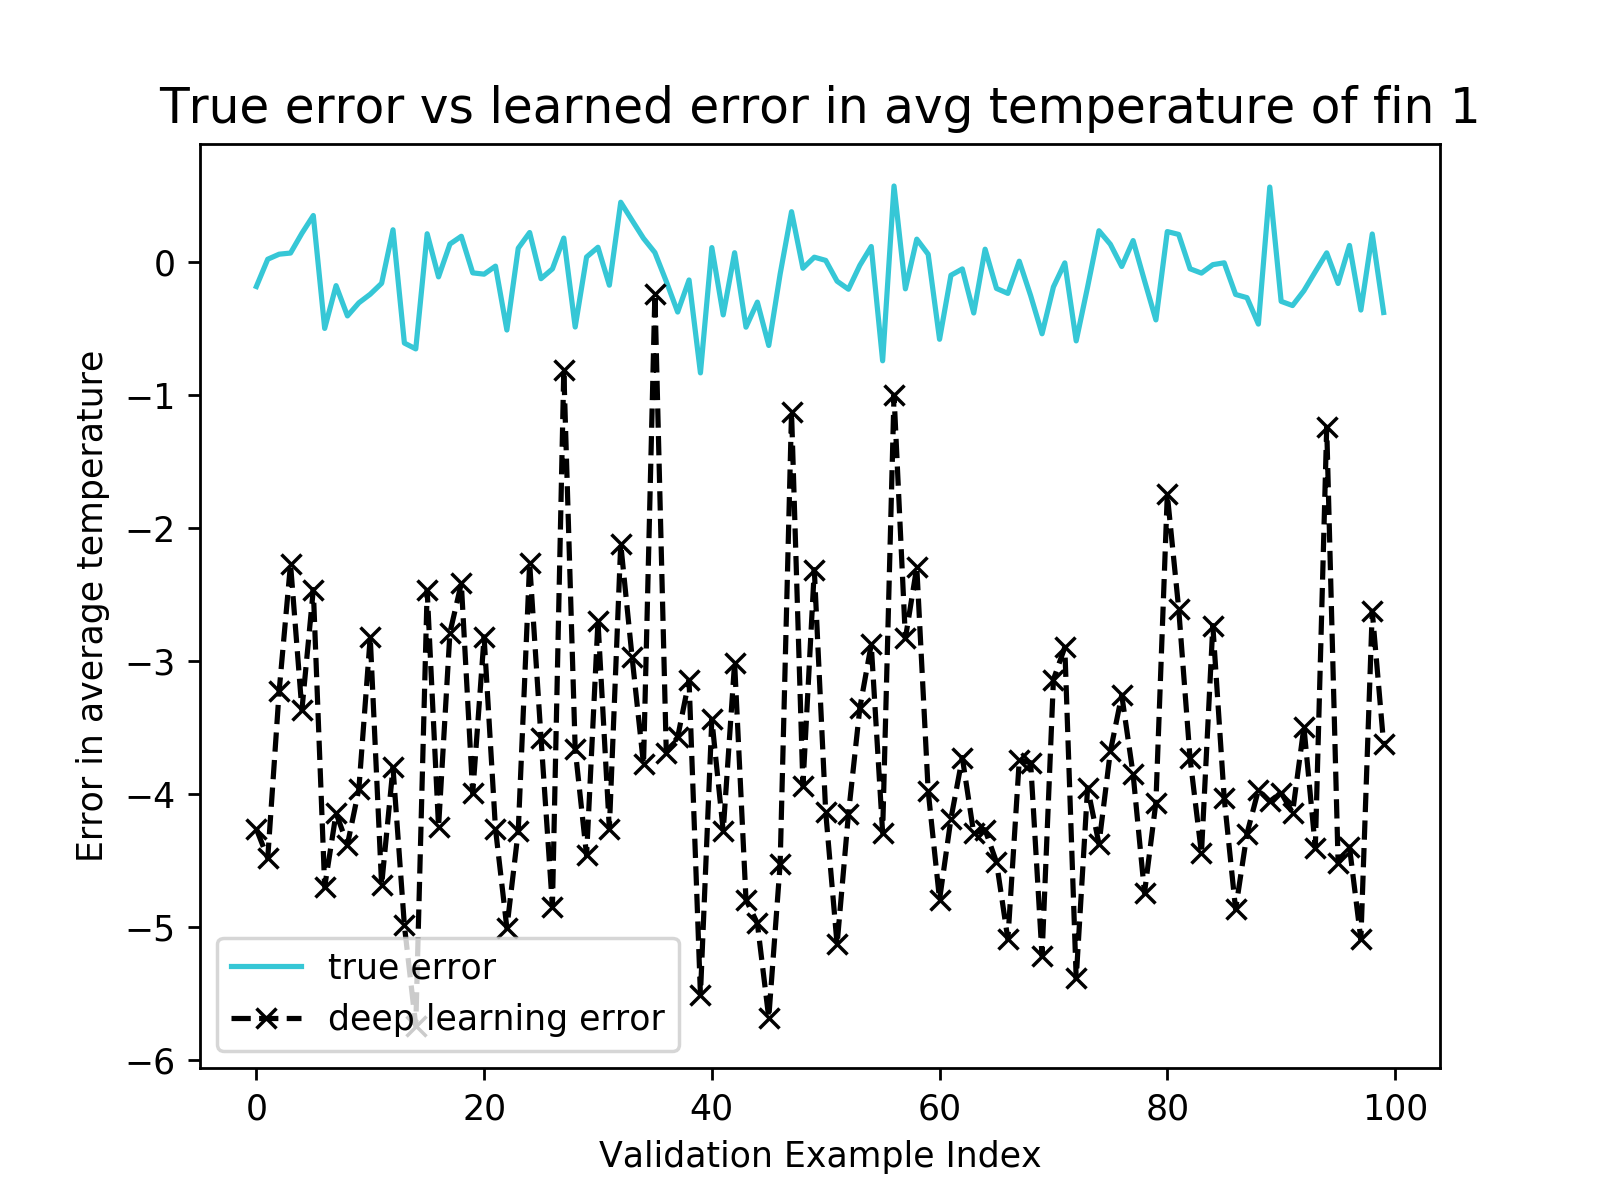
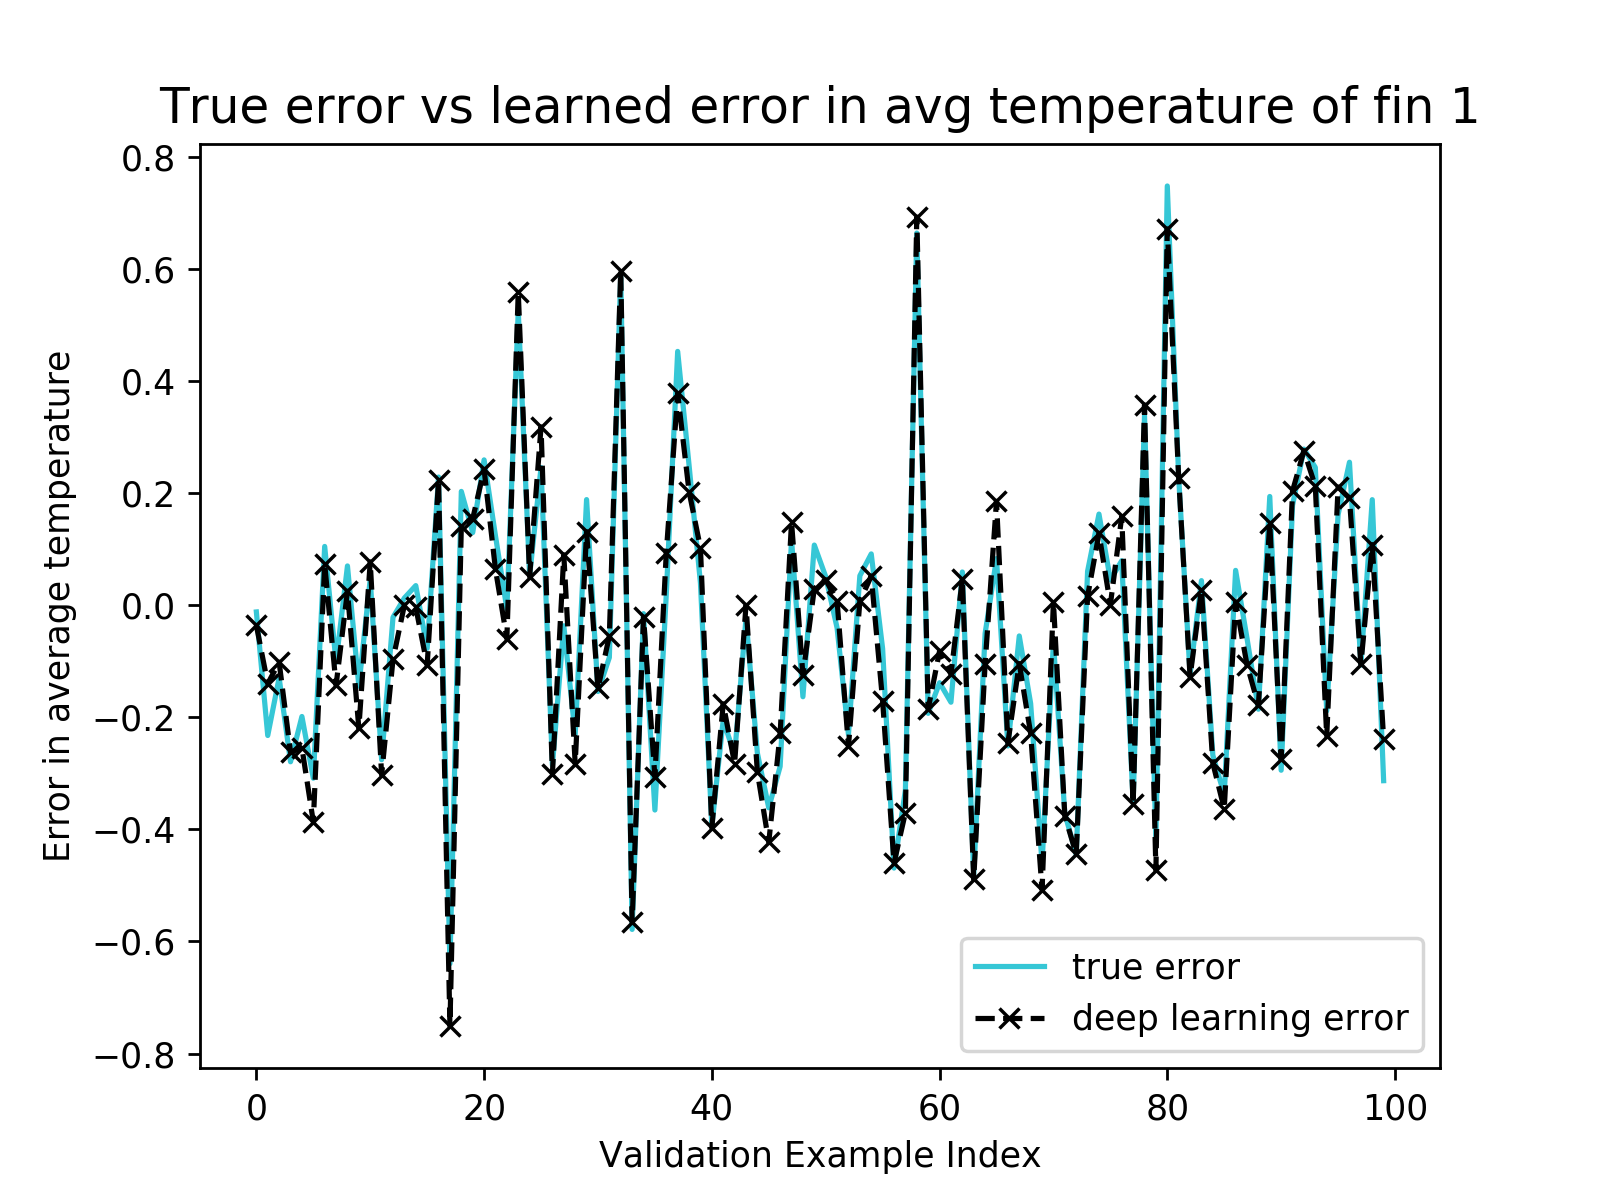
Averaging ROM with sub 1 percent error

diff --git a/applications/thermal_fin/dl_model.py b/applications/thermal_fin/dl_model.py
@@ -56,21 +56,21 @@ def load_dataset_avg_rom(load_prev=True, tr_size=4000, v_size=200):
     Load dataset where the conductivity is parametrized as a FEniCS function
     and the QoI is the averaged temperature per subfin
     '''
-    if os.path.isfile('data/z_conductivity_avg_train.txt') and load_prev:
-        z_train = np.loadtxt('data/z_conductivity_avg_train.txt', delimiter=',')
-        errors_train =  np.loadtxt('data/errors_conductivity_avg_train.txt', delimiter=',')
+    if os.path.isfile('data/z_avg_tr.txt') and load_prev:
+        z_train = np.loadtxt('data/z_avg_tr.txt', delimiter=',')
+        errors_train =  np.loadtxt('data/errors_avg_tr.txt', delimiter=',')
     else:
         (z_train, errors_train) = gen_avg_rom_dataset(tr_size)
-        np.savetxt('data/z_conductivity_avg_train.txt', z_train, delimiter=',')
-        np.savetxt('data/errors_conductivity_avg_train.txt', errors_train, delimiter=',')
+        np.savetxt('data/z_avg_tr.txt', z_train, delimiter=',')
+        np.savetxt('data/errors_avg_tr.txt', errors_train, delimiter=',')
 
-    if os.path.isfile('data/z_conductivity_avg_eval.txt') and load_prev:
-        z_val = np.loadtxt('data/z_conductivity_avg_eval.txt', delimiter=',')
-        errors_val =  np.loadtxt('data/errors_conductivity_avg_eval.txt', delimiter=',')
+    if os.path.isfile('data/z_avg_eval.txt') and load_prev:
+        z_val = np.loadtxt('data/z_avg_eval.txt', delimiter=',')
+        errors_val =  np.loadtxt('data/errors_avg_eval.txt', delimiter=',')
     else:
         (z_val, errors_val) = gen_avg_rom_dataset(v_size)
-        np.savetxt('data/z_conductivity_avg_eval.txt', z_val, delimiter=',')
-        np.savetxt('data/errors_conductivity_avg_eval.txt', errors_val, delimiter=',')
+        np.savetxt('data/z_avg_eval.txt', z_val, delimiter=',')
+        np.savetxt('data/errors_avg_eval.txt', errors_val, delimiter=',')
 
     return z_train, errors_train, z_val, errors_val
 
@@ -132,9 +132,9 @@ def parametric_model(activation,
     #  plt.savefig("subfin_avg_tr_v_loss.png",dpi=250)
 
     # Saves Keras model (useful for Bayesian inference)
-    save_weights = True
-    if (save_weights):
-        model.save_weights('data/keras_model_avg')
+    #  save_weights = True
+    #  if (save_weights):
+        #  model.save_weights('data/keras_model_avg')
 
     # Save best model
     best_vmape = np.loadtxt('data/best_vmape.txt').item()
@@ -175,8 +175,11 @@ def load_parametric_model_avg(activation,
     model.compile(loss='mse', optimizer=optimizer(lr=lr), metrics=['mape'])
 
     if os.path.isfile('data/keras_model_avg_best.index'):
-        print ("Keras model weights loaded")
+        print ("Best Keras model weights loaded")
         model.load_weights('data/keras_model_avg_best')
+    elif os.path.isfile('data/keras_model.index'):
+        print ("Keras model weight loaded")
+        modal.load_weights('data/keras_model')
     else: 
         print ("Keras model not found!")
 
@@ -184,9 +187,18 @@ def load_parametric_model_avg(activation,
 
 #  vmape = parametric_model('relu', Adam, 0.0012, 6, 58, 90, 400)
 #  print ('\nError: {:2.3f}%'.format(vmape))
-z_train, errors_train = gen_avg_rom_dataset(4000)
-z_val, errors_val = gen_avg_rom_dataset(200)
-vmape = parametric_model('relu', Adam, 0.0011283825254944236, 4, 66, 94, 400, 
-        z_train, errors_train, z_val, errors_val)
-#  vmape = parametric_model('relu', Adam, 0.0024, 5, 50, 130, 400, 
-print ('\nError: {:2.3f}%'.format(vmape))
+
+#  z_train, errors_train = gen_avg_rom_dataset(4000)
+#  z_val, errors_val = gen_avg_rom_dataset(200)
+#  vmape = parametric_model('relu', Adam, 0.001128, 4, 66, 94, 400, 
+        #  z_train, errors_train, z_val, errors_val)
+
+
+
+#  z_train = np.loadtxt('data/z_avg_tr.txt', delimiter=",")
+#  errors_train = np.loadtxt('data/errors_avg_tr.txt', delimiter=",")
+#  z_val = np.loadtxt('data/z_avg_eval.txt', delimiter=",")
+#  errors_val = np.loadtxt('data/errors_avg_eval.txt', delimiter=",")
+#  vmape = parametric_model('elu', Adam, 0.001, 4, 50, 10, 400, 
+        #  z_train, errors_train, z_val, errors_val)
+#  print ('\nError: {:2.3f}%'.format(vmape))

diff --git a/applications/thermal_fin/avg_rom_plot.py b/applications/thermal_fin/avg_rom_plot.py
@@ -1,6 +1,6 @@
-import matplotlib; matplotlib.use("agg")
+import matplotlib
+matplotlib.use('macosx')
 import matplotlib.pyplot as plt
-plt.style.use('seaborn-dark-palette')
 import numpy as np
 from dl_model import load_parametric_model_avg
 from tensorflow.keras.optimizers import Adam, RMSprop, Adadelta
@@ -10,7 +10,7 @@ from dolfin import Function
 z_val = np.loadtxt('data/z_avg_eval.txt', delimiter=',')
 errors_val =  np.loadtxt('data/errors_avg_eval.txt', delimiter=',')
 V = get_space(40)
-model = load_parametric_model_avg('relu', Adam, 0.0011283825254944236, 4, 66, 94, 218, V.dim())
+model = load_parametric_model_avg('elu', Adam, 0.129, 3, 58, 64, 466, V.dim())
 phi = np.loadtxt('data/basis_five_param.txt',delimiter=",")
 #  phi = phi[:,0:10]
 solver = Fin(V)
@@ -20,8 +20,8 @@ avgs_d = np.zeros((len(z_val), 5))
 avgs_c = np.zeros((len(z_val), 5))
 err_pred = np.zeros((len(z_val), 5))
 z = Function(V)
-print(z_val.shape)
 err_pred = model.predict(z_val)
+print ("Average validation error in pred: {}".format(np.average(np.divide(np.abs(errors_val - err_pred), np.abs(errors_val)))))
 
 for i in range(len(z_val)):
     nodal_vals = z_val[i,:]
@@ -31,6 +31,8 @@ for i in range(len(z_val)):
     avgs_f[i] = solver.qoi_operator(x)
     avgs_r[i] = solver.reduced_qoi_operator(x_r)
     avgs_d[i] = avgs_r[i] + err_pred[i]
+
+print ("Average relative error in tilde: {}".format(np.average(np.divide(np.abs(avgs_f - avgs_d), np.abs(avgs_f)))))
 
 for i in range(5):
     plt.cla()

diff --git a/applications/thermal_fin/hyper_param_opt.py b/applications/thermal_fin/hyper_param_opt.py
@@ -10,19 +10,19 @@ from tensorflow.keras.optimizers import Adam, RMSprop, Adadelta
 #  z_train, errors_train, z_val, errors_val = load_dataset_avg_rom()
 
 # Defines the hyperparameter space
-space = [Categorical(['relu', 'sigmoid', 'tanh'], name='activation'),
+space = [Categorical(['elu', 'sigmoid', 'tanh', 'relu'], name='activation'),
          Categorical([Adam, RMSprop, Adadelta], name='optimizer'),
-         Real(1e-4, 1, prior="log-uniform", name='lr'),
+         Real(1e-5, 1, prior="log-uniform", name='lr'),
          Integer(1, 6, name='n_hidden_layers'),
          Integer(10, 100, name='n_weights'),
-         Integer(10, 200, name='batch_size'),
-         Integer(100, 400, name='n_epochs')]
+         Integer(4, 200, name='batch_size'),
+         Integer(100, 600, name='n_epochs')]
 
 @use_named_args(space)
 def objective(**params):
     return parametric_model(**params)
 
-res_gp = gp_minimize(objective, space, n_calls=60, random_state=0)
+res_gp = gp_minimize(objective, space, n_calls=60, random_state=None)
 
 print("Best score: {}".format(res_gp.fun))
 print('''Best parameters:\n

diff --git a/applications/thermal_fin/generate_fin_dataset.py b/applications/thermal_fin/generate_fin_dataset.py
@@ -27,8 +27,13 @@ def gen_avg_rom_dataset(dataset_size, resolution=40):
         qoi_r = solver.reduced_qoi_operator(x_r)
         qoi_errors[i,:] = qoi - qoi_r
 
-    np.savetxt('data/z_avg_eval.txt', z_s, delimiter=",")
-    np.savetxt('data/errors_avg_eval.txt', qoi_errors, delimiter=",")
+    if (dataset_size > 1000):
+        np.savetxt('data/z_avg_tr.txt', z_s, delimiter=",")
+        np.savetxt('data/errors_avg_tr.txt', qoi_errors, delimiter=",")
+
+    if (dataset_size < 400):
+        np.savetxt('data/z_avg_eval.txt', z_s, delimiter=",")
+        np.savetxt('data/errors_avg_eval.txt', qoi_errors, delimiter=",")
     return (z_s, qoi_errors)
 
 def generate_five_param(dataset_size, resolution=40):
